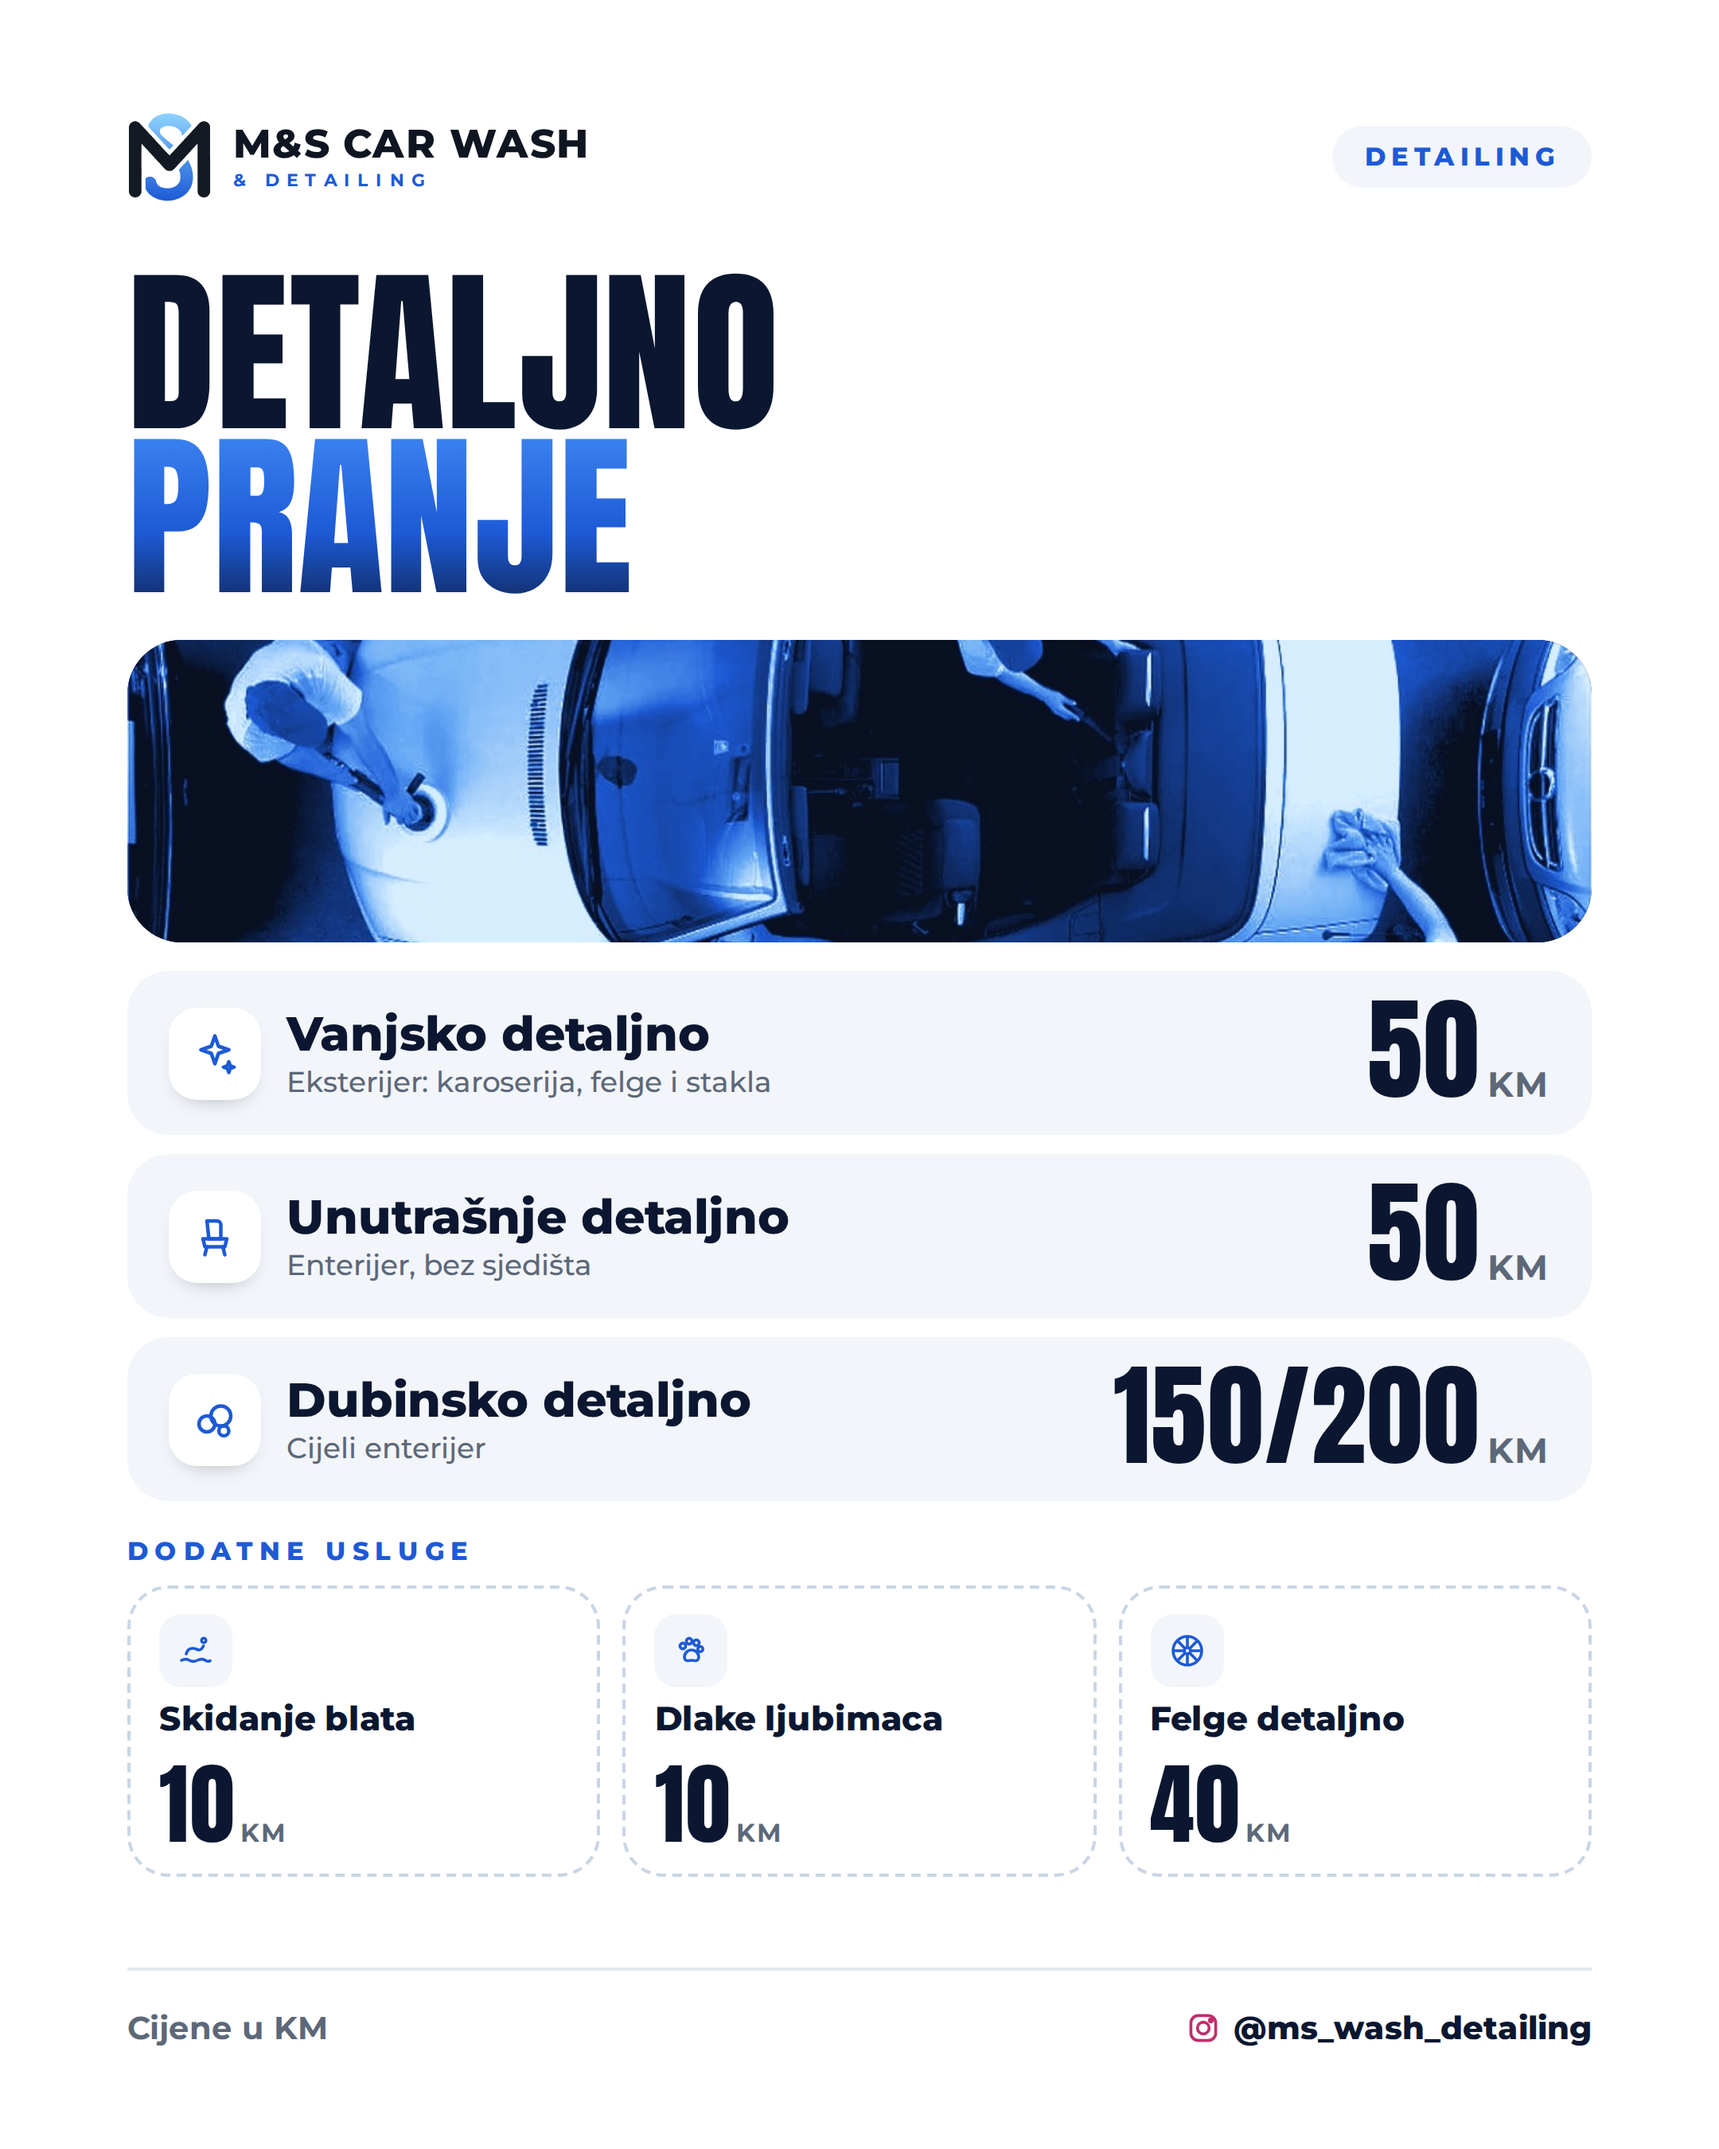
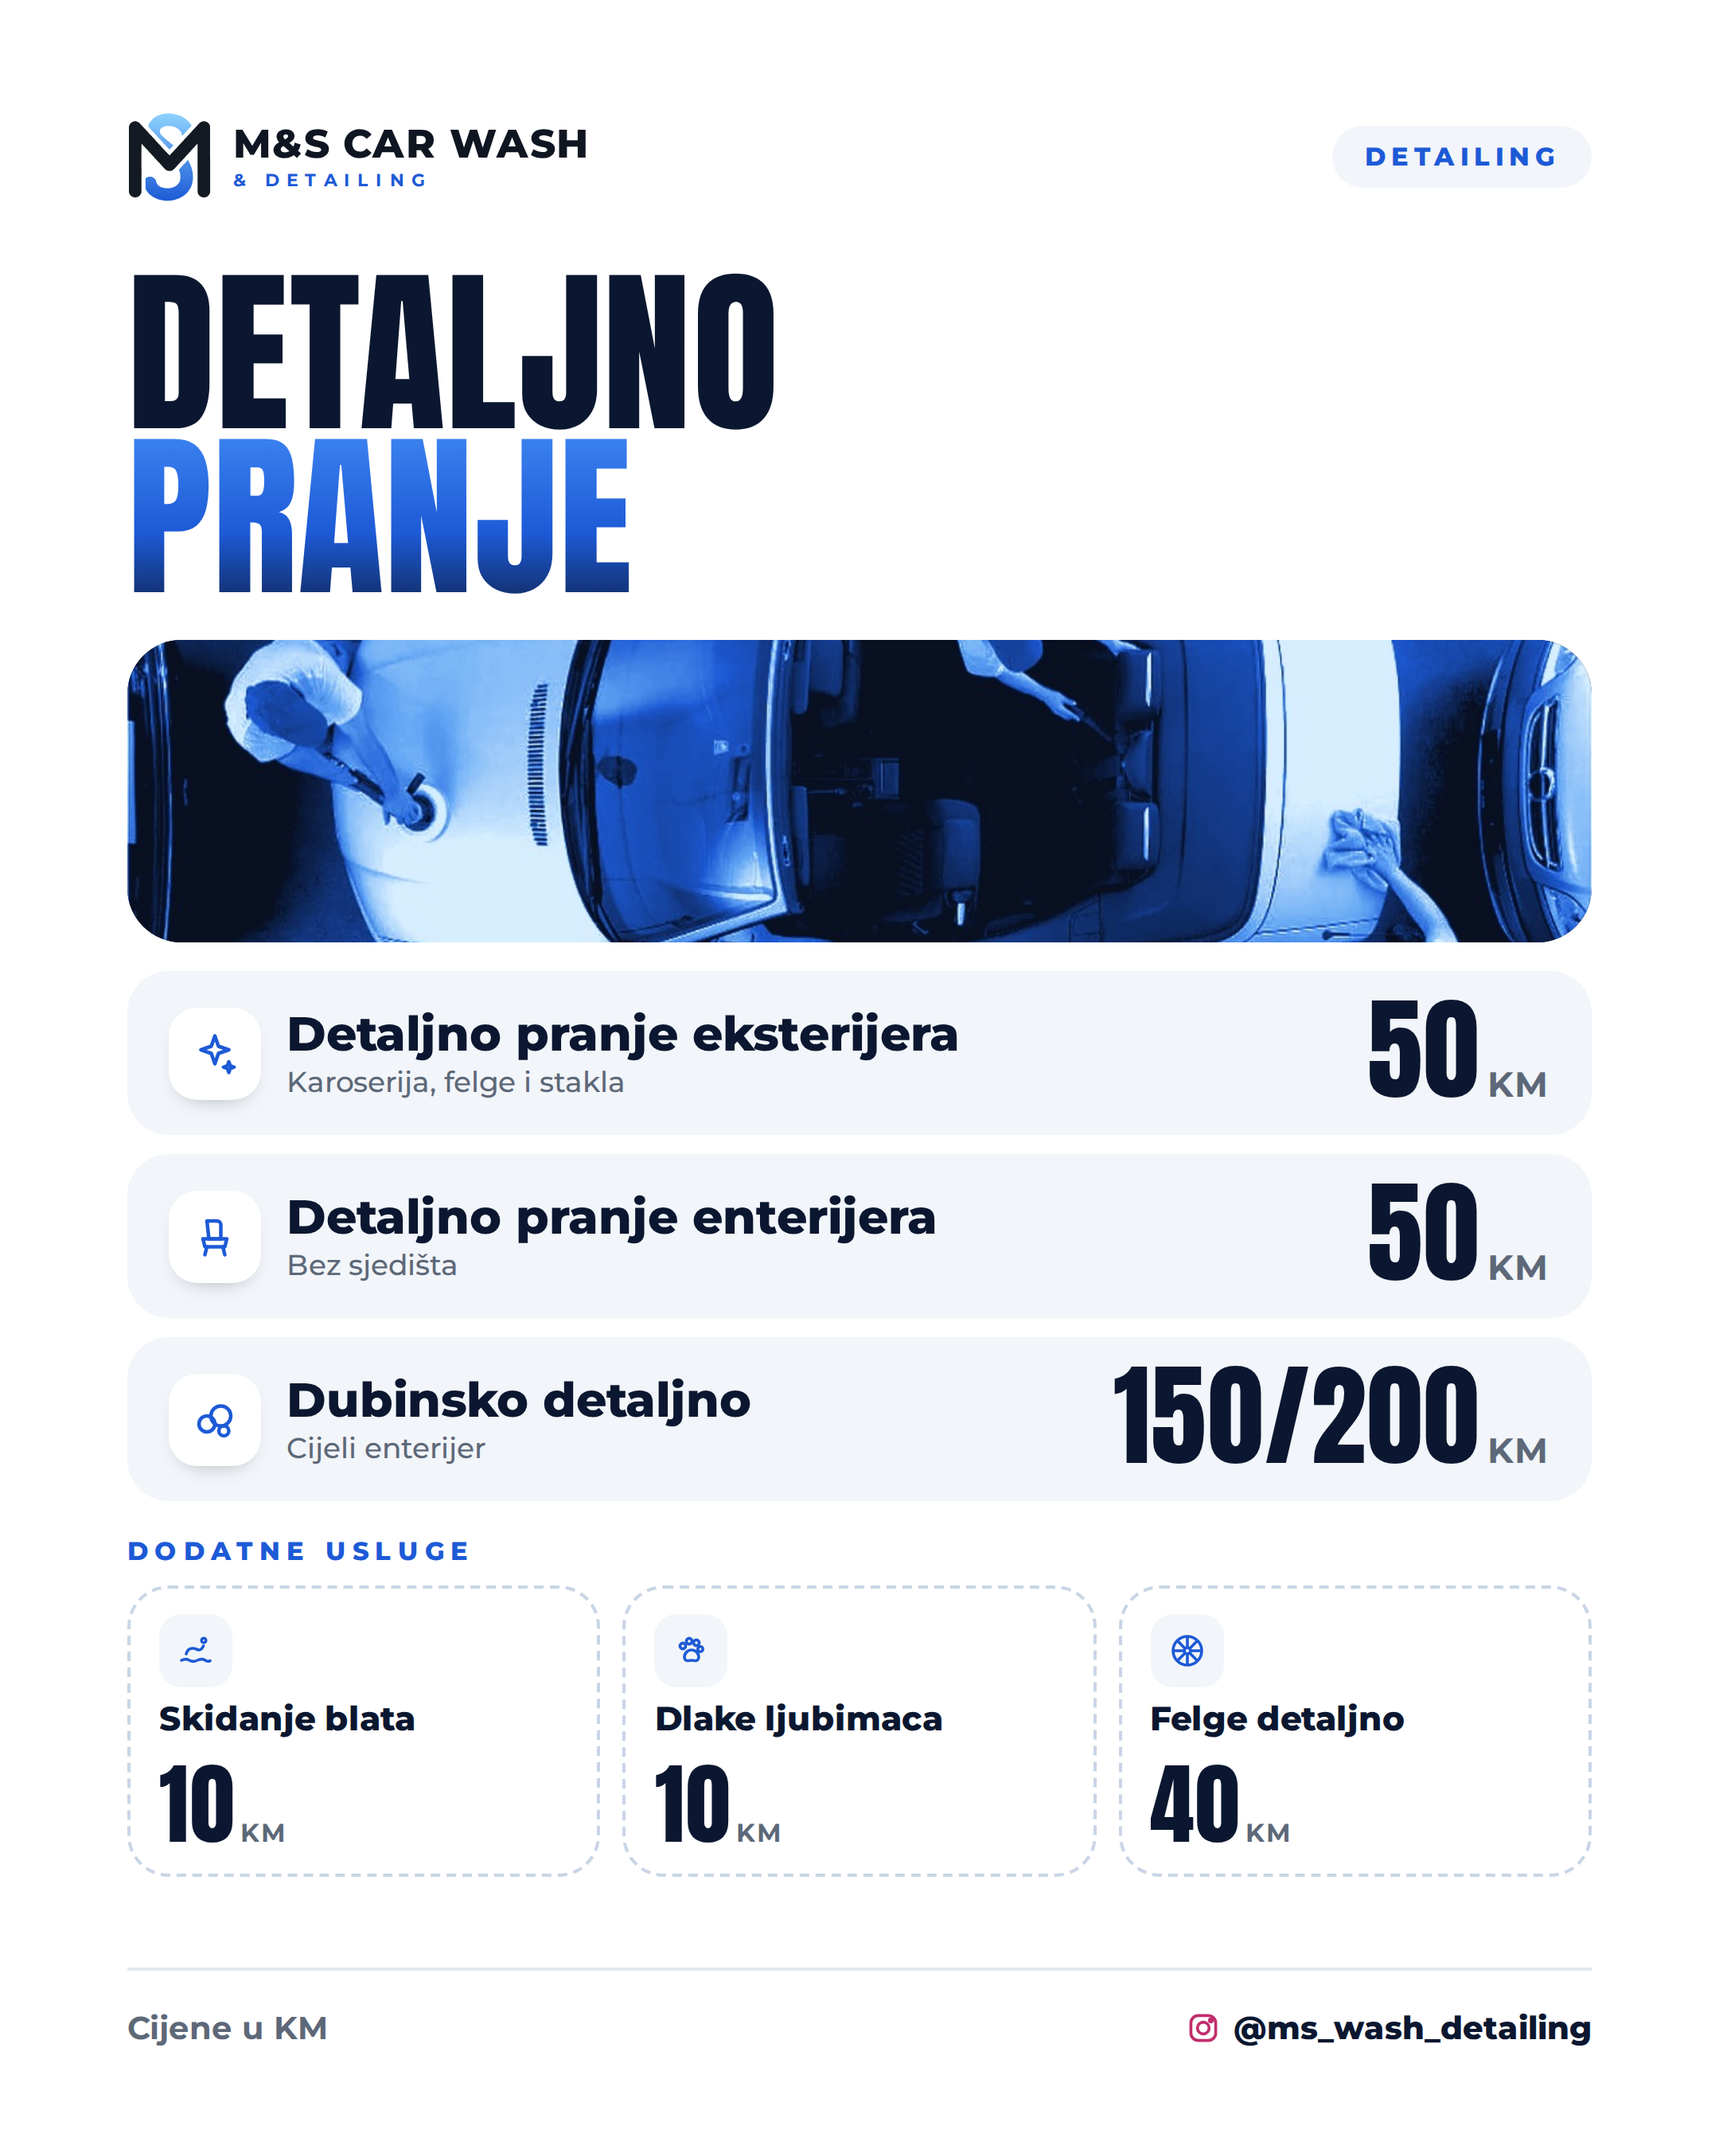
Instagram 2 i 3: pranje eksterijera i enterijera kao na stranici

Changed region(s): [[0.1551, 0.4667, 0.5583, 0.5289], [0.1551, 0.56, 0.5583, 0.5911]]

diff --git a/stampa/izvor/design.html b/stampa/izvor/design.html
@@ -426,8 +426,8 @@ svg.mega { display: block; width: 100%; height: auto; overflow: visible; }
 // ---- podaci: cijene od M&S (10/2026) ----
 const K = { tel: '+387 62 568 565', ig: '@ms_wash_detailing' };
 const VOZILA = [['car', 'Malo auto', 'Pranje eksterijera i enterijera', '15'], ['suv', 'SUV', 'Veće putničko vozilo', '20'], ['van', 'Kombi', 'Pranje eksterijera i enterijera', '25']];
-const PRAONICA = [['spray', 'Vanjsko pranje', 'Pranje eksterijera', '10'], ['vac', 'Unutrašnje pranje', 'Pranje enterijera', '10']];
-const DETALJNO = [['spark', 'Vanjsko detaljno', 'Eksterijer: karoserija, felge i stakla', '50'], ['seat', 'Unutrašnje detaljno', 'Enterijer, bez sjedišta', '50'], ['foam', 'Dubinsko detaljno', 'Cijeli enterijer', '150/200']];
+const PRAONICA = [['spray', 'Pranje eksterijera', 'Karoserija i felge', '10'], ['vac', 'Pranje enterijera', 'Unutrašnjost vozila', '10']];
+const DETALJNO = [['spark', 'Detaljno pranje eksterijera', 'Karoserija, felge i stakla', '50'], ['seat', 'Detaljno pranje enterijera', 'Bez sjedišta', '50'], ['foam', 'Dubinsko detaljno', 'Cijeli enterijer', '150/200']];
 const DODATNO = [['mud', 'Skidanje blata', '', '10'], ['paw', 'Dlake ljubimaca', '', '10'], ['rim', 'Felge detaljno', '', '40']];
 const PAKETI = [
   ['bronze', 'Bronze', 'Detaljno pranje', '250', ['Detaljno pranje eksterijera i enterijera']],
